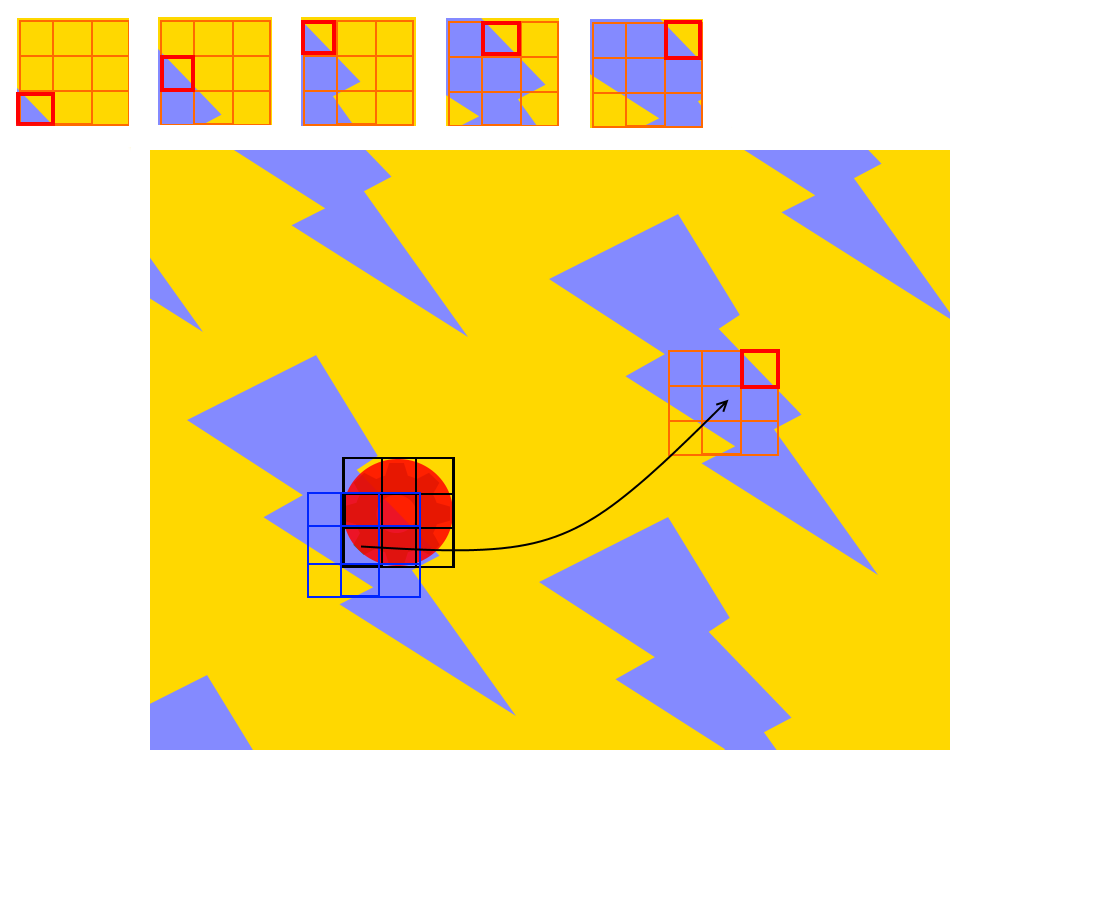
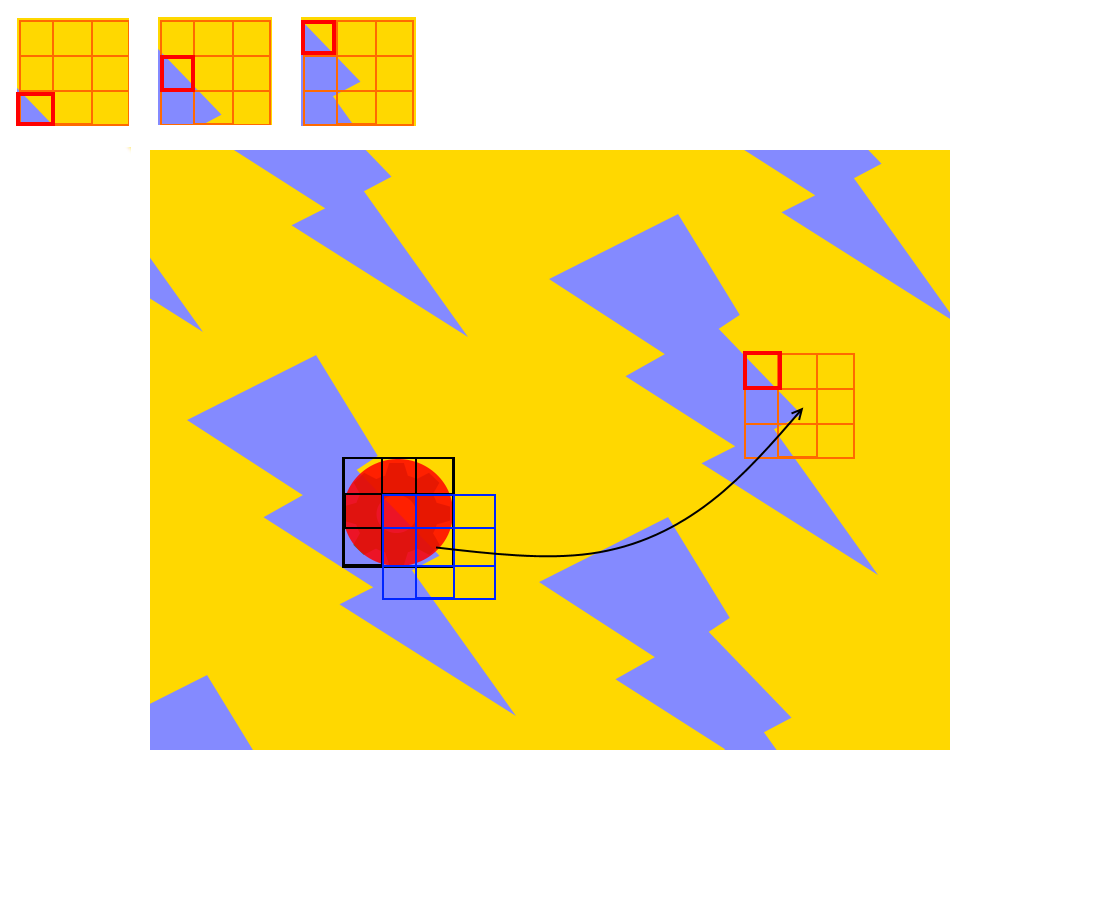
update process explanation

diff --git a/PITCHME/assets/md/PITCHME.md b/PITCHME/assets/md/PITCHME.md
@@ -340,17 +340,10 @@ So we need to find the values of these pixels.
 
 Note:
 There are more, but for the sake of simplicity we imagine that these are only six these.
-In order to find the values we going to find similar patches at the image.
 
-Let's start with finding a value of the pixel in the middle.
+How do we do that?
 
-We will use patches of 3 by 3 size.
-
-The pixel is contained in 9 patches surrounding it.
-We are going to find the similar patches to every out of these 9. So that we could find the value
-based on the statistics.
-
-// TODO: may be it is better to show all these patches in a next slide using gif animation?
+Let's start with finding a value of the pixel in the middle.(Next slide)
 
 ---
 <!-- .slide: data-transition="none" -->
@@ -359,20 +352,28 @@ based on the statistics.
 <img src="./assets/md/assets/inpaint/process004.png"  height="500" /> 
 
 Note:
-We have found a similar patch for one of the 9.
+In order to do that we will analize patches that contain this pixel. 
 
+For the simplicity we will use patches of size 3x3  (Next slide)
 
 ---
 <!-- .slide: data-transition="none" -->
 <span class="menu-title" style="display: none">Inpainting alg</span>
 
-<img src="./assets/md/assets/inpaint/process005.png"  height="500" /> 
+<img src="./assets/md/assets/inpaint/process005.gif"  height="500" /> 
+
+Note:
+The pixel is a part of 9 different patches. And what we going to do now. We will find a similar patch for each of these 9 at the picture and reconstruct the value based on statistics of the 9 patches. (Next slide)
 
 ---
 <!-- .slide: data-transition="none" -->
 <span class="menu-title" style="display: none">Inpainting alg</span>
 
 <img src="./assets/md/assets/inpaint/process006.png"  height="500" /> 
+
+Note:
+We have found a similar patch for one of the 9.
+
 
 ---
 <!-- .slide: data-transition="none" -->
@@ -410,25 +411,37 @@ We have found a similar patch for one of the 9.
 
 <img src="./assets/md/assets/inpaint/process012.png"  height="500" /> 
 
-Note:
-We have now patches that suggest us the value of the pixel
-
 ---
 <!-- .slide: data-transition="none" -->
 <span class="menu-title" style="display: none">Inpainting alg</span>
 
 <img src="./assets/md/assets/inpaint/process013.png"  height="500" /> 
 
-Note:
-These are the values.
+---
+<!-- .slide: data-transition="none" -->
+<span class="menu-title" style="display: none">Inpainting alg</span>
 
+<img src="./assets/md/assets/inpaint/process014.png"  height="500" /> 
+
+Note:
+We have now patches that suggest us the value of the pixel
+
+These are the values.(Next slide)
+
+---
+<!-- .slide: data-transition="none" -->
+<span class="menu-title" style="display: none">Inpainting alg</span>
+
+<img src="./assets/md/assets/inpaint/process015.png"  height="500" /> 
+
+Note:
 And if we will take an average of their value(Next slide)
 
 ---
 <!-- .slide: data-transition="none" -->
 <span class="menu-title" style="display: none">Inpainting alg</span>
 
-<img src="./assets/md/assets/inpaint/process014.png"  height="500" /> 
+<img src="./assets/md/assets/inpaint/process016.png"  height="500" /> 
 
 Note:
 We will get the more or less reliable value of the pixel
@@ -439,10 +452,10 @@ Lets set this value(Next slide)
 <!-- .slide: data-transition="none" -->
 <span class="menu-title" style="display: none">Inpainting alg</span>
 
-<img src="./assets/md/assets/inpaint/process015.png"  height="500" /> 
+<img src="./assets/md/assets/inpaint/process017.png"  height="500" /> 
 
 Note:
-The process is repeated for the each pixel in the area until all the values are not calculated
+The process is repeated (Next slide)
 
 
 ---
@@ -452,12 +465,13 @@ The process is repeated for the each pixel in the area until all the values are 
 <img src="./assets/md/assets/inpaint/process_rest.gif"  height="500" /> 
 
 Note:
+for the each pixel in the area until all the values are not calculated
 In the reality the image is bigger and pixels are smaller. That is why the whole process is done on an image pyramid.
 
 ---
 <span class="menu-title" style="display: none">Image Pyramids</span>
 
-<img src="./assets/md/assets/inpaint/process016.png"  height="500" /> 
+<img src="./assets/md/assets/inpaint/pyramids.png"  height="500" /> 
 
 Note:
 Image pyramid is built by scaling down the original image by factor 2. After that we run the algorithm at the lowest scale and after that propagate results to the upper level and perform processing.
@@ -466,19 +480,20 @@ Image pyramid is built by scaling down the original image by factor 2. After tha
 <span class="menu-title" style="display: none">Patch Match</span>
 
 ### Critical part
-- Amount of Patches = Image Width * Image Height <!-- .element: class="fragment" -->
-  - 800 * 600 = 480 000
 - Nearest Neighbour Field (NNF) <!-- .element: class="fragment" -->
+- Amount of Patches = Amount of pixels <!-- .element: class="fragment" -->
+  - 800 * 600 = 480 000
 - Use PatchMatch <!-- .element: class="fragment" -->
-  - Requires only about 5 runs through image
+  - Requires ~ 5 iterations
 
 Note:
-The most time consuming part of this approach is to find best match for every patch at the entire image.
-For every patch we need to go thru entire image and find the best match. Image contains Patches = Width * Height 
+The most time consuming part of this approach is to find best match for every patch at the entire image. To build a mapping of a patch to its best match. This mapping is called (Show first bullet) 
 
-We need to build a mapping between patches.
+Nearest Neighbour Field. In order to build this mapping we need to go thru the enentire image **for each patch** and find its best match. Image contains (Next bullet) 
 
-I use PatchMatch algorithm that allows to speed up his process significantly. More iterations we perform the precisier NNF becomes.
+A plenty of patches. It could be a quadratic complexity. But (Next bullet)
+
+There is a nice PatchMatch algorithm that allows to speed up his process significantly. More iterations we perform the precisier NNF becomes.
 
 Now we should be able to outline the entire process (Next slide)
 
@@ -490,12 +505,16 @@ Now we should be able to outline the entire process (Next slide)
 <pre>
 
 
+
+
+
+
+
     for j < nnfBuildIterations
-      // build nnf
-    end
+      nnf = ImproveNnf(nnf, image ..);
 
 
-
+    
 
 
 
@@ -509,12 +528,16 @@ Now we should be able to outline the entire process (Next slide)
 <pre>
 
 
+
+
+
+
+
     for j < nnfBuildIterations
-      // build nnf
-    end
-    foreach pixel in removeArea
-      // Calc pixel value - inpainting
-    end
+      nnf = ImproveNnf(nnf, image ..);
+
+    image = Inpaint(image, removeArea, nnf, ..);
+    
 
 
 
@@ -526,15 +549,19 @@ Now we should be able to outline the entire process (Next slide)
 <span class="menu-title" style="display: none">Wex algorithm</span>
 
 <pre>
+
+
+
 
   for i < inpaintIterations
+  {
+
     for j < nnfBuildIterations
-      // build nnf
-    end
-    foreach pixel in removeArea
-      // Calc pixel value - inpainting
-    end
-  end
+      nnf = ImproveNnf(nnf, image ..);
+
+    image = Inpaint(image, removeArea, nnf, ..);
+    
+  }
 
 
 </pre>
@@ -546,17 +573,21 @@ Now we should be able to outline the entire process (Next slide)
 <span class="menu-title" style="display: none">Wex algorithm</span>
 
 <pre>
-foreach level in levels
+foreach level in pyramid.Levels
+{
+  image = level.GetImage();
+
   for i < inpaintIterations
+  {
+
     for j < nnfBuildIterations
-      // build nnf
-    end
-    foreach pixel in removeArea
-      // Calc pixel value - inpainting
-    end
-  end
-  // scale up NNF
-end
+      nnf = ImproveNnf(nnf, image ..);
+
+    image = Inpaint(image, removeArea, nnf, ..);
+    
+  }
+  nnf = nnf.ScaleUp(..);
+}
 </pre>
 
 ---
